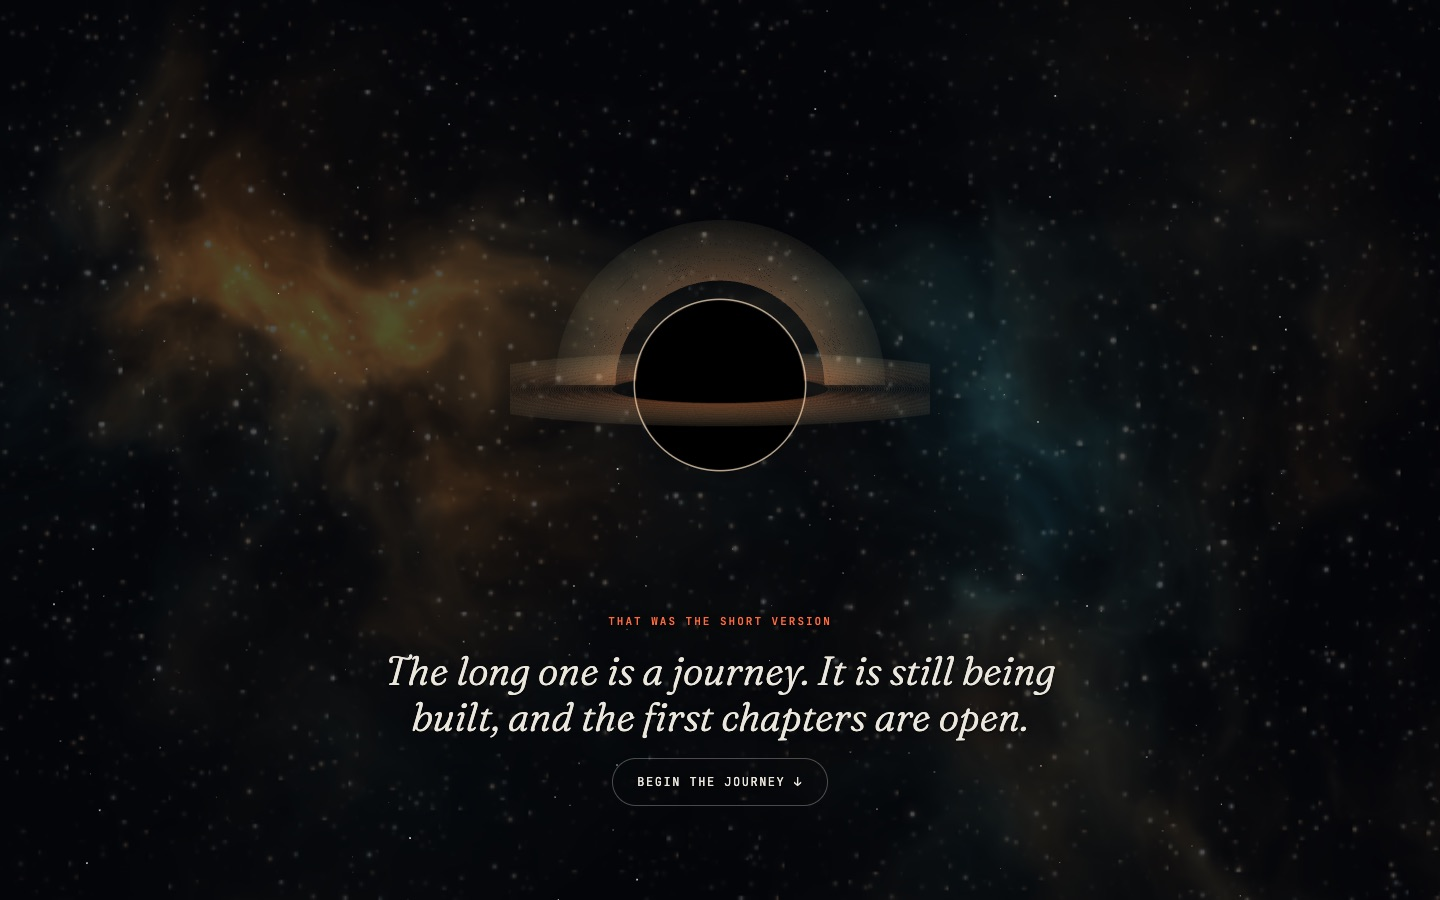
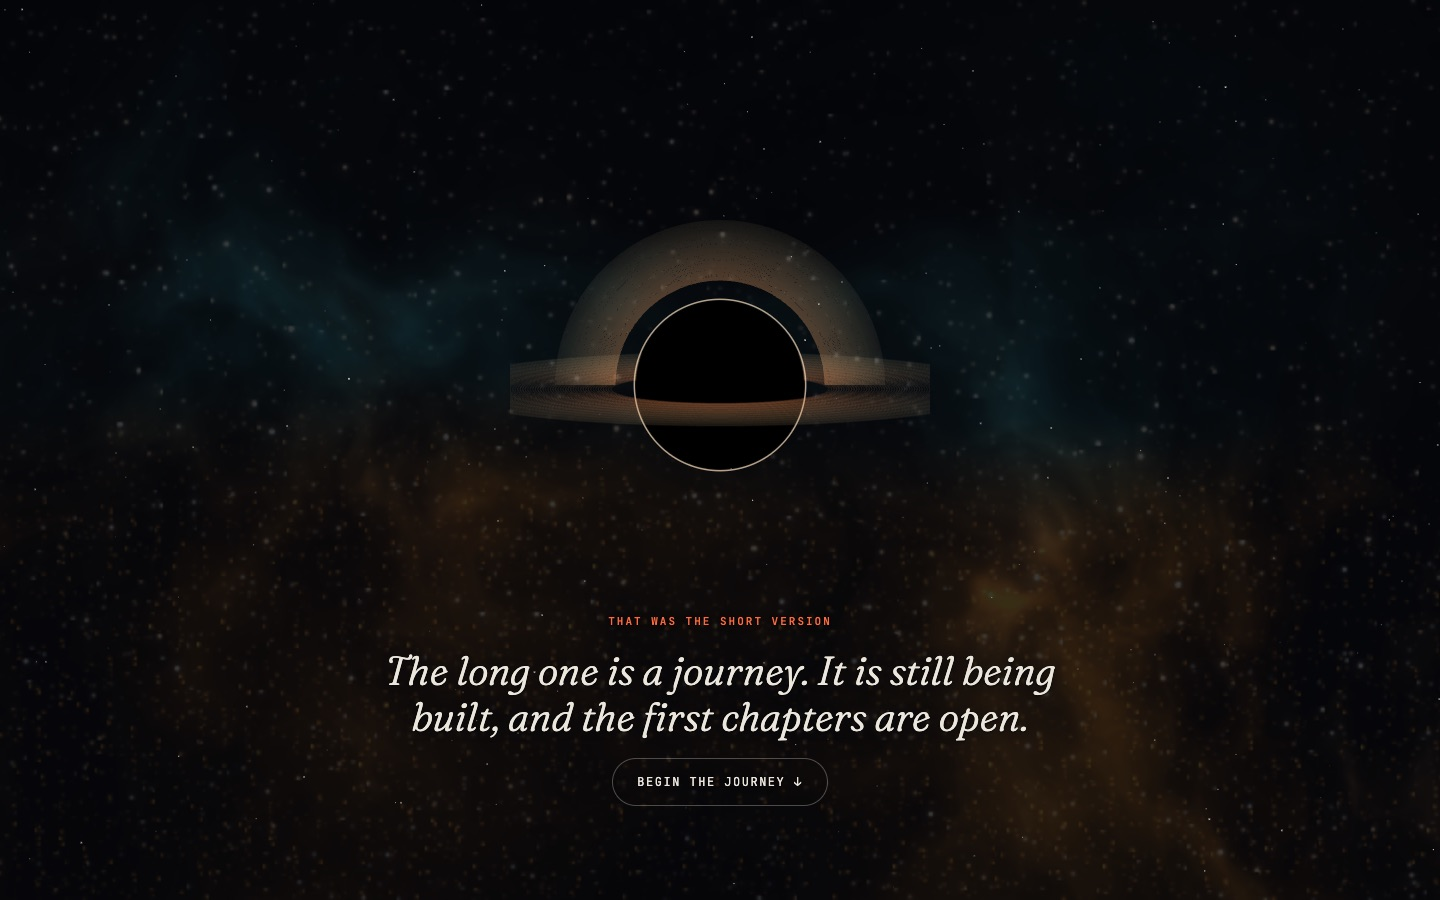
Landing: Dune Part Three palette and the light under the finger
Teal and blue-black above, spice gold below, sand highlights and gold
dust in the warm air, with a short crossing so the colors never mix
into olive. On phones the finger is the pointer: touching and
scrolling light the nebula under it, a stronger light wanders when no
finger is down, and sliding between sections brightens the sky more
than on desktop.

diff --git a/src/landing/sky.ts b/src/landing/sky.ts
@@ -10,8 +10,10 @@ const PANORAMA = 1.7;
 /** Nebula opacity at rest: a dark sky. Moving the view adds up to GLOW_OPACITY more. */
 const REST_OPACITY = 0.17;
 const GLOW_OPACITY = 0.23;
-/** On touch screens a faint light wanders on its own, one weak point every 120 ms. */
-const WANDER_STRENGTH = 0.12;
+/** On touch screens a light wanders on its own while no finger is down, one point every 120 ms. */
+const WANDER_STRENGTH = 0.45;
+/** Touch screens have no hover, so sliding the view lights up more of the sky. */
+const TOUCH_GLOW_OPACITY = 0.45;
 
 interface Star {
   x: number;
@@ -59,23 +61,33 @@ export function startSky(): void {
   // ---------- the light around the pointer ----------
   const trail: TrailPoint[] = [];
   let lastPush = 0;
+  const lightAt = (x: number, y: number): void => {
+    const now = performance.now();
+    const head = trail[0];
+    if (now - lastPush > 40 || !head) {
+      pushPoint(trail, { x, y, s: 1 });
+      lastPush = now;
+    } else {
+      head.x = x;
+      head.y = y;
+      head.s = 1;
+    }
+  };
   window.addEventListener(
     'pointermove',
     (e) => {
-      if (e.pointerType !== 'mouse') return;
-      const now = performance.now();
-      const head = trail[0];
-      if (now - lastPush > 40 || !head) {
-        pushPoint(trail, { x: e.clientX, y: e.clientY, s: 1 });
-        lastPush = now;
-      } else {
-        head.x = e.clientX;
-        head.y = e.clientY;
-        head.s = 1;
-      }
+      if (e.pointerType === 'mouse') lightAt(e.clientX, e.clientY);
     },
     { passive: true },
   );
+  // On a phone the finger is the pointer: touching and scrolling light the sky under it.
+  // Touch events keep firing while the page scrolls (pointer events are cancelled).
+  const onTouch = (e: TouchEvent): void => {
+    const t = e.touches[0];
+    if (t) lightAt(t.clientX, t.clientY);
+  };
+  window.addEventListener('touchstart', onTouch, { passive: true });
+  window.addEventListener('touchmove', onTouch, { passive: true });
 
   // ---------- where we look ----------
   let section: string | null = null;
@@ -100,7 +112,8 @@ export function startSky(): void {
     const move = `translate3d(${(-pan).toFixed(1)}px, 0, 0)`;
     nebula.style.transform = move;
     light.style.transform = move;
-    nebula.style.setProperty('--glow', (REST_OPACITY + GLOW_OPACITY * view.glow).toFixed(3));
+    const glow = coarse ? TOUCH_GLOW_OPACITY : GLOW_OPACITY;
+    nebula.style.setProperty('--glow', (REST_OPACITY + glow * view.glow).toFixed(3));
     const mask = lightMask(trail, pan);
     light.style.maskImage = mask;
     light.style.setProperty('-webkit-mask-image', mask);
@@ -235,7 +248,7 @@ export function startSky(): void {
     // The light fades on real time, even when frames are slow.
     fadeTrail(trail, Math.min(0.5, raw));
     time += dt;
-    // With a mouse the sky goes dark again at rest; on touch a faint light keeps wandering.
+    // With a mouse the sky goes dark again at rest; on touch a light keeps wandering.
     if (coarse && isIdle(trail, 0.2) && now - lastWander > 120) {
       const p = wanderer(time, window.innerWidth, window.innerHeight);
       pushPoint(trail, { ...p, s: WANDER_STRENGTH });

diff --git a/src/landing/nebula.ts b/src/landing/nebula.ts
@@ -1,5 +1,5 @@
 // The nebula behind the landing: a wide, still painting of gas, dust lanes and star clusters
-// in a Dune-like palette,
+// in the palette of Dune: Part Three,
 // rendered once in WebGL. It never moves on its own; the page pans the view across it.
 
 const VERTEX = 'attribute vec2 a; void main(){ gl_Position = vec4(a, 0.0, 1.0); }';
@@ -50,24 +50,32 @@ void main(){
   float wisps = ridged(uv * 2.8 + q * 1.8);
   float dens = band * smoothstep(0.25, 0.85, 0.55 * body + 0.6 * wisps * body);
 
-  // Dune-like palette: black teal shadows, muted teal gas, spice amber, pale sand highlights.
-  vec3 deep = vec3(0.02, 0.06, 0.09), teal = vec3(0.08, 0.32, 0.36);
-  vec3 amber = vec3(0.86, 0.52, 0.2), sand = vec3(1.0, 0.84, 0.58), rust = vec3(0.36, 0.12, 0.05);
-  float spice = smoothstep(0.35, 0.8, q.x * body * 1.7 + 0.3 * (x - 0.5));
-  vec3 tint = mix(mix(deep, teal, smoothstep(0.25, 0.75, body)), amber, spice);
-  vec3 gas = tint * dens * (0.45 + 1.3 * pow(body, 1.4)) * 1.6;
-  gas += sand * pow(wisps, 5.0) * band * (0.15 + 0.4 * spice);
+  // Dune: Part Three palette: blue-black teal above, spice gold below, sand highlights,
+  // a cyan glow in the cool gas and gold dust in the warm air.
+  float low = 1.0 - clamp(uv.y, 0.0, 1.0);
+  vec3 deep = vec3(0.015, 0.035, 0.045), teal = vec3(0.07, 0.30, 0.33);
+  vec3 gold = vec3(0.95, 0.56, 0.12), ember = vec3(0.55, 0.24, 0.05);
+  vec3 sand = vec3(1.0, 0.86, 0.6), rust = vec3(0.30, 0.12, 0.04);
+  // A short crossing, so teal and gold rarely mix into olive.
+  float spice = smoothstep(0.42, 0.6, low + 0.3 * (q.x * body - 0.3));
+  vec3 cool = mix(deep, teal, smoothstep(0.25, 0.75, body));
+  vec3 warm = mix(ember, gold, smoothstep(0.3, 0.8, body));
+  vec3 gas = mix(cool, warm, spice) * dens * (0.45 + 1.3 * pow(body, 1.4)) * 1.6;
+  gas += sand * pow(wisps, 5.0) * band * (0.12 + 0.45 * spice);
 
   // Dark dust lanes cut through the glow, rusty at their edges.
   float dust = smoothstep(0.5, 0.78, fbm(uv * 3.4 + q * 2.4 + 9.0));
   gas = mix(gas, rust * dens, 0.35 * dust * band);
   gas *= 1.0 - 0.75 * dust * band;
 
-  vec3 col = vec3(0.006, 0.009, 0.012) + gas;
+  // The empty sky is not flat black: cold at the top, a warm haze near the bottom.
+  vec3 col = mix(vec3(0.006, 0.012, 0.016), vec3(0.03, 0.016, 0.006), low * low) + gas;
   // Stars: a fine field everywhere, denser and brighter clusters inside the gas.
   col += stars(uv, 90.0, 0.55) * 0.5;
   col += stars(uv + 3.1, 38.0, 0.7 - 0.35 * band) * (0.6 + band);
   col += stars(uv + 7.7, 14.0, 0.85 - 0.2 * band) * 1.2;
+  // Gold dust floating in the warm air.
+  col += stars(uv + 11.3, 150.0, 0.5) * vec3(1.0, 0.72, 0.3) * spice * 0.9;
   // Soft glow of unresolved stars in the densest parts.
   col += sand * pow(dens, 3.0) * 0.08;
 

diff --git a/docs/cenas/landing.md b/docs/cenas/landing.md
@@ -15,10 +15,11 @@ Quem está com pressa resolve tudo aqui em 10 segundos: quem é, o que faz, onde
 ## Tempero
 
 - Céu escuro com estrelas discretas e leve paralaxe.
-- Nebulosa no estilo da árvore de habilidades do Skyrim (homenagem só no estilo): uma pintura larga e parada do céu (faixa de gás com filamentos, faixas de poeira escura, aglomerados de estrelas), 1,7 tela de largura, pintada uma vez em WebGL. Paleta da primeira versão puxada para o Duna: sombras em preto esverdeado, gás verde-azulado apagado, laranja de especiaria e realces cor de areia.
-- O céu fica escuro (17% de opacidade em repouso). A luz em volta do mouse acende a nebulosa por inteiro, com um rastro que se apaga em ~2,5 s. Sem mouse (celular), uma luz fraca passeia sozinha.
+- Nebulosa no estilo da árvore de habilidades do Skyrim (homenagem só no estilo): uma pintura larga e parada do céu (faixa de gás com filamentos, faixas de poeira escura, aglomerados de estrelas), 1,7 tela de largura, pintada uma vez em WebGL. Paleta de Duna: Parte Três (referências do Elias, pôsteres e teasers): preto azulado com verde-azulado e um brilho ciano no alto do céu, laranja-dourado de especiaria embaixo, realces cor de areia e partículas douradas de poeira no ar quente. A troca entre frio e quente é curta para não virar verde-oliva.
+- O céu fica escuro (17% de opacidade em repouso). A luz em volta do mouse acende a nebulosa por inteiro, com um rastro que se apaga em ~2,5 s.
+- No celular o dedo é o mouse: tocar e arrastar (o próprio gesto de rolar) acende a nebulosa sob o dedo, com o mesmo rastro (eventos de toque continuam durante o scroll; os de ponteiro são cancelados). Sem dedo na tela, uma luz passeia sozinha (força 0,45 por ponto). Ao deslizar entre seções, o céu clareia mais no celular (até +45%) do que no desktop (+23%).
 - A nebulosa não se mexe; o que muda é para onde olhamos. Cada parte da página tem um ponto no céu (About, Experience, Projects, a porta). Ao rolar até outra parte, a vista desliza até lá e o céu clareia um pouco durante o movimento. O mouse inclina a vista de leve. Uma camada de estrelas mais próxima anda um pouco mais rápido (paralaxe).
-- Histórico: a primeira versão (gás revelado só pelo cursor) parecia arte abstrata; a segunda (nebulosa parada e clara, cores frias e quentes separadas) perdeu o contraste e a paleta antiga. Esta junta os desenhos da segunda com a luz e a paleta da primeira.
+- Histórico: a primeira versão (gás revelado só pelo cursor) parecia arte abstrata; a segunda (nebulosa parada e clara, frio à esquerda e quente à direita) perdeu o contraste. A atual junta os desenhos da segunda com a luz da primeira, na paleta de Duna: Parte Três. No celular, a primeira tentativa de luz que passeia era fraca demais e o céu parecia só estrelas.
 - Um satélite pequeno orbitando ao lado do nome.
 - Itens da lista se destacam ao passar o mouse (os outros esmaecem).
 
